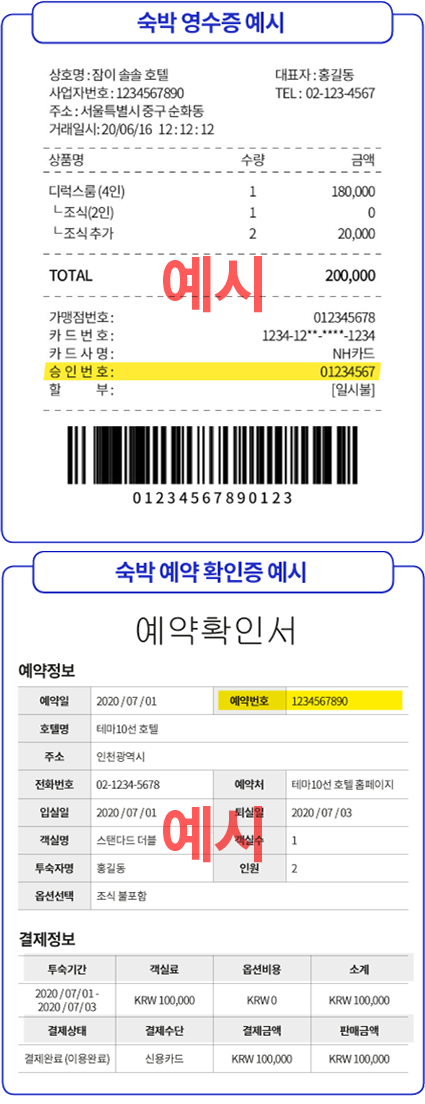
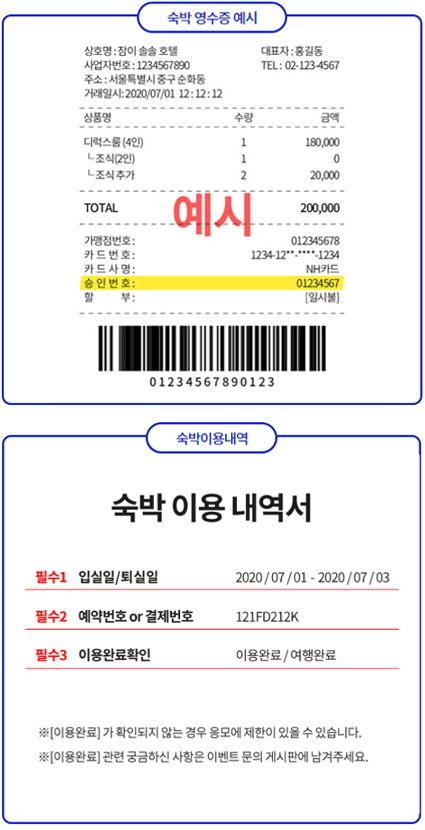
테마10선 수정(영수증 번호 입력 팝업 제거)

Changed region(s): [[0.0, 0.0, 1.0, 0.994]]

diff --git a/src/components/event/Thema10Certify.vue b/src/components/event/Thema10Certify.vue
@@ -61,10 +61,11 @@
           <img src="@/assets/images/event/icon_auth2.png" alt="">
           숙박 영수증 인증
         </div>
-        <div class="box" v-if="thema10Status.receipt_log_auth_type === null || thema10Status.receipt_no === ''">
+        <div class="box" v-if="thema10Status.receipt_log_auth_type === null">
           <div class="desc">
             <div class="p_center">
-              숙박 영수증의 <span class="underline">승인번호 or</span><br/><span class="underline">예약번호와 사진</span>을 등록해주세요.
+              <span class="underline">숙박 영수증 or 숙박 이용내역서 </span><br>사진을 첨부해주세요.<br>
+              <span class="mask">* 간이영수증은 인정되지 않습니다.</span>
             </div>
           </div>
           <div class="btn" @click="photoUpload(1, 'Edit')">
@@ -83,8 +84,7 @@
             <div class="right">
               <div class="txt1 type2">영수증 첨부 완료</div>
               <div class="txt2">
-                첨부일자  {{(thema10Status.receipt_log_datetime) ? thema10Status.receipt_log_datetime.substring(0,10) : ''}}<br/>
-                승인번호 {{thema10Status.receipt_no || '정보 없음'}}
+                첨부일자  {{(thema10Status.receipt_log_datetime) ? thema10Status.receipt_log_datetime.substring(0,10) : ''}}
               </div>
             </div>
           </div>
@@ -132,18 +132,24 @@ export default {
   methods: {
     photoUpload (type, photo) {
       if (this.$cookie.get(`thema10Auth_${type}`) === 'Y') {
-        if (type === 0) {
-          this.$store.dispatch('openPhotoPop', {
-            open: true,
-            type: type,
-            edit: photo,
-            msg: (photo === 'reEdit' && type === 0) ? 'receiptUpload' : ''
-          })
-        } else {
-          this.$store.dispatch('openReceiptPop', {
-            open: true
-          })
-        }
+        this.$store.dispatch('openPhotoPop', {
+          open: true,
+          type: type,
+          edit: photo,
+          msg: (photo === 'reEdit' && type === 0) ? 'receiptUpload' : ''
+        })
+        // if (type === 0) {
+        //   this.$store.dispatch('openPhotoPop', {
+        //     open: true,
+        //     type: type,
+        //     edit: photo,
+        //     msg: (photo === 'reEdit' && type === 0) ? 'receiptUpload' : ''
+        //   })
+        // } else {
+        //   this.$store.dispatch('openReceiptPop', {
+        //     open: true
+        //   })
+        // }
       } else {
         this.type = type
         this.edit = photo
@@ -175,10 +181,10 @@ export default {
           tit2 = '자정 이후 새로<br>이벤트에 참여 가능합니다.'
         } else {
           if (this.thema10Status.photo_authno === null) {
-            tit1 = '이벤트에 참여하려면<br>관광지 방문 인증 사진을<br/>추가 해주세요.'
+            tit1 = '이벤트에 참여하려면<br>관광지 방문 인증 사진을<br/>첨부해주세요.'
             tit2 = ''
           } else {
-            tit1 = '이벤트에 참여하려면<br>숙박 영수증 인증사진과<br>영수증 번호를 추가 해주세요.'
+            tit1 = '이벤트에 참여하려면<br>숙박 영수증 or 숙박 이용내역서<br> 사진을 첨부해주세요.'
             tit2 = ''
           }
         }

diff --git a/src/store/index.js b/src/store/index.js
@@ -127,7 +127,8 @@ export default new Vuex.Store({
     loadingMainList: false,
     themaPopReceipt: { open: false },
     receiptNumber: '',
-    uploadLoading: false
+    uploadLoading: false,
+    submitCheck: false
   },
   mutations: {
     setIntroData (state, data) {
@@ -1033,6 +1034,7 @@ export default new Vuex.Store({
       cData.mcResponse = {}
       const tel = data.pGift.member_mobile.replace(/-/gi, '')
       let count = 0
+      let msg = ''
       // 상품 코드 2개 이상인 상품 처리
       giftCode.map((val) => {
         const mUrl = `https://post.moneycon.co.kr/MCon-PostWeb/realtime/postJSON?postCd=${data.pGift.gift_post_code}&cmd=100&prodCd1=${val}&prodCnt1=1&senderMobileNo=&mobileNo=${tel}&name=${data.pGift.mingle_member_id}`
@@ -1047,7 +1049,24 @@ export default new Vuex.Store({
             couponNo: (!cData.mcResponse.couponNo) ? res.data.couponNo : cData.mcResponse.couponNo.concat(',' + res.data.couponNo)
           }
           count++
+          console.log(res)
           if (giftCode.length === count) {
+            if (String(res.data.resCd) === '100') {
+              // msg = '선물이 신청되었습니다.<br/>선물은 입력된 휴대폰으로<br/>발송됩니다.'
+              msg = res.data.resMsg
+            } else if (String(res.data.resCd) === '102') {
+              // msg = '선물 신청에 실패했습니다.'
+              msg = res.data.resMsg
+            } else {
+              // msg = '서버 오류로 선물 신청에 실패했습니다.'
+              msg = res.data.resMsg
+            }
+            state.submitCheck = false
+            dispatch('openNotiPopup', {
+              tit1: msg,
+              tit2: '',
+              close: 'Y'
+            })
             dispatch('loadGiftReceive', cData)
           }
         })

diff --git a/src/components/event/Thema10Example.vue b/src/components/event/Thema10Example.vue
@@ -33,8 +33,8 @@ export default {
           warning: '* 인증샷은 마스크 착용 필수!'
         },
         {
-          title: '<span>숙박 결제 영수증</span>(종이/모바일)과<br/>이용이 완료된 <span>숙박 예약확인서</span>를<br/>첨부해주세요',
-          image: require('@/assets/images/event/example2_3.png'),
+          title: '<span>숙박 결제 영수증</span>(종이/모바일)과<br/>이용이 완료된 <span>숙박 이용 내역서</span>를<br/>첨부해주세요',
+          image: require('@/assets/images/event/example2_3.png?20200807'),
           warning: '(간이 영수증은 인정 안됨)'
         }
       ]
@@ -53,18 +53,24 @@ export default {
         }
       }
       this.$store.dispatch('openExamplePop', false)
-      if (this.type === 0) {
-        this.$store.dispatch('openPhotoPop', {
-          open: true,
-          type: this.type,
-          edit: this.edit,
-          msg: (this.edit === 'reEdit') ? 'receiptUpload' : ''
-        })
-      } else {
-        this.$store.dispatch('openReceiptPop', {
-          open: true
-        })
-      }
+      this.$store.dispatch('openPhotoPop', {
+        open: true,
+        type: this.type,
+        edit: this.edit,
+        msg: (this.edit === 'reEdit') ? 'receiptUpload' : ''
+      })
+      // if (this.type === 0) {
+      //   this.$store.dispatch('openPhotoPop', {
+      //     open: true,
+      //     type: this.type,
+      //     edit: this.edit,
+      //     msg: (this.edit === 'reEdit') ? 'receiptUpload' : ''
+      //   })
+      // } else {
+      //   this.$store.dispatch('openReceiptPop', {
+      //     open: true
+      //   })
+      // }
     }
   },
   mounted () {

diff --git a/src/components/popup/PopupGiftReceive.vue b/src/components/popup/PopupGiftReceive.vue
@@ -91,7 +91,7 @@ export default {
     }
   },
   computed: {
-    ...mapState(['popupGift', 'mingleCode', 'memberInfo', 'stampCodeInfo', 'popupNoti', 'durunubiCheck'])
+    ...mapState(['popupGift', 'mingleCode', 'memberInfo', 'stampCodeInfo', 'popupNoti', 'durunubiCheck', 'submitCheck'])
   },
   methods: {
     closeBtn () {
@@ -147,14 +147,12 @@ export default {
               // this.$store.dispatch('openPopupGift', {})
             }
           } else {
-            this.$store.dispatch('openNotiPopup', {
-              tit1: '선물이 신청되었습니다.<br/>선물은 입력된 휴대폰으로<br/>발송됩니다.',
-              tit2: '',
-              close: 'Y'
-            })
-            // 머니콘 신청
-            // this.$store.dispatch('ApplyMoneycon', { pGift: this.popupGift, mInfo: this.memberInfo })
             this.$store.dispatch('loadGiftReceive', { pGift: this.popupGift, mInfo: this.memberInfo, mcResponse: {} })
+            // if (!this.submitCheck) {
+            //   // 머니콘 신청
+            //   this.$store.state.submitCheck = true
+            //   this.$store.dispatch('ApplyMoneycon', { pGift: this.popupGift, mInfo: this.memberInfo })
+            // }
           }
         }
       }
